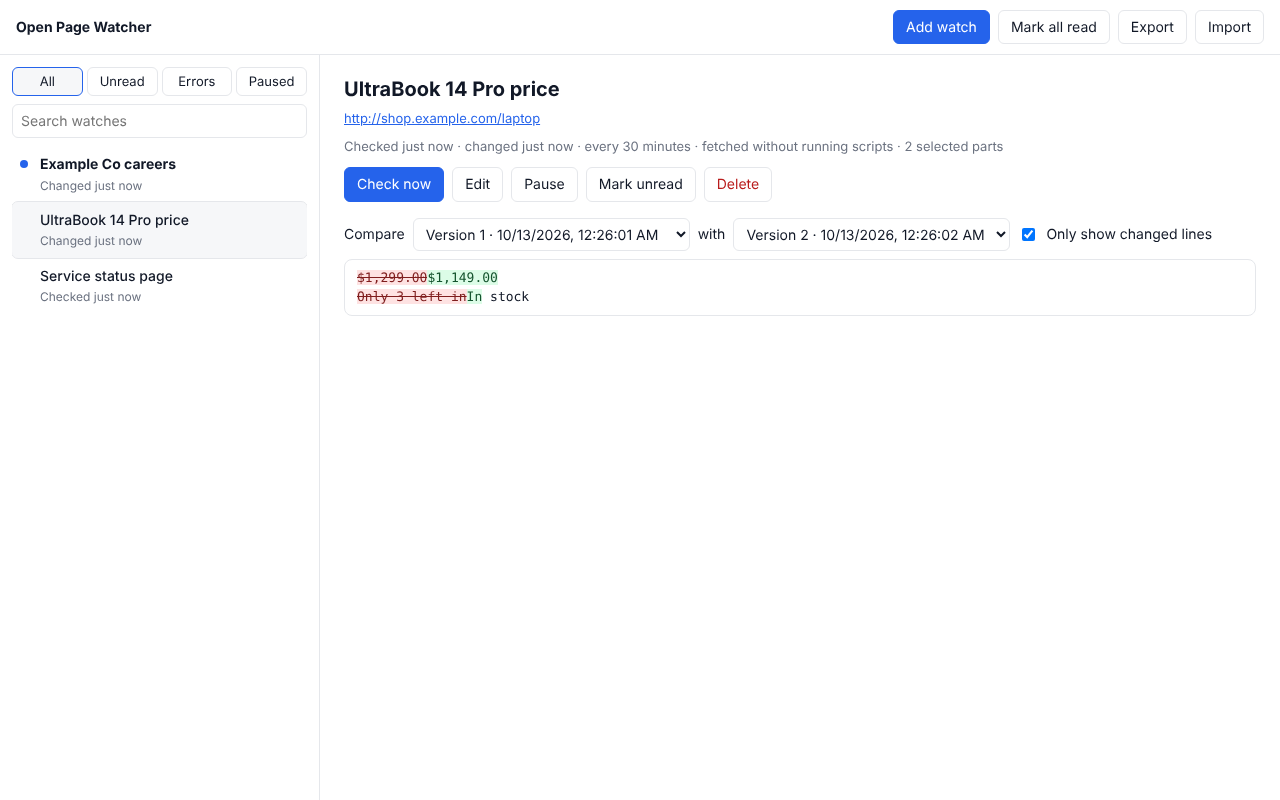
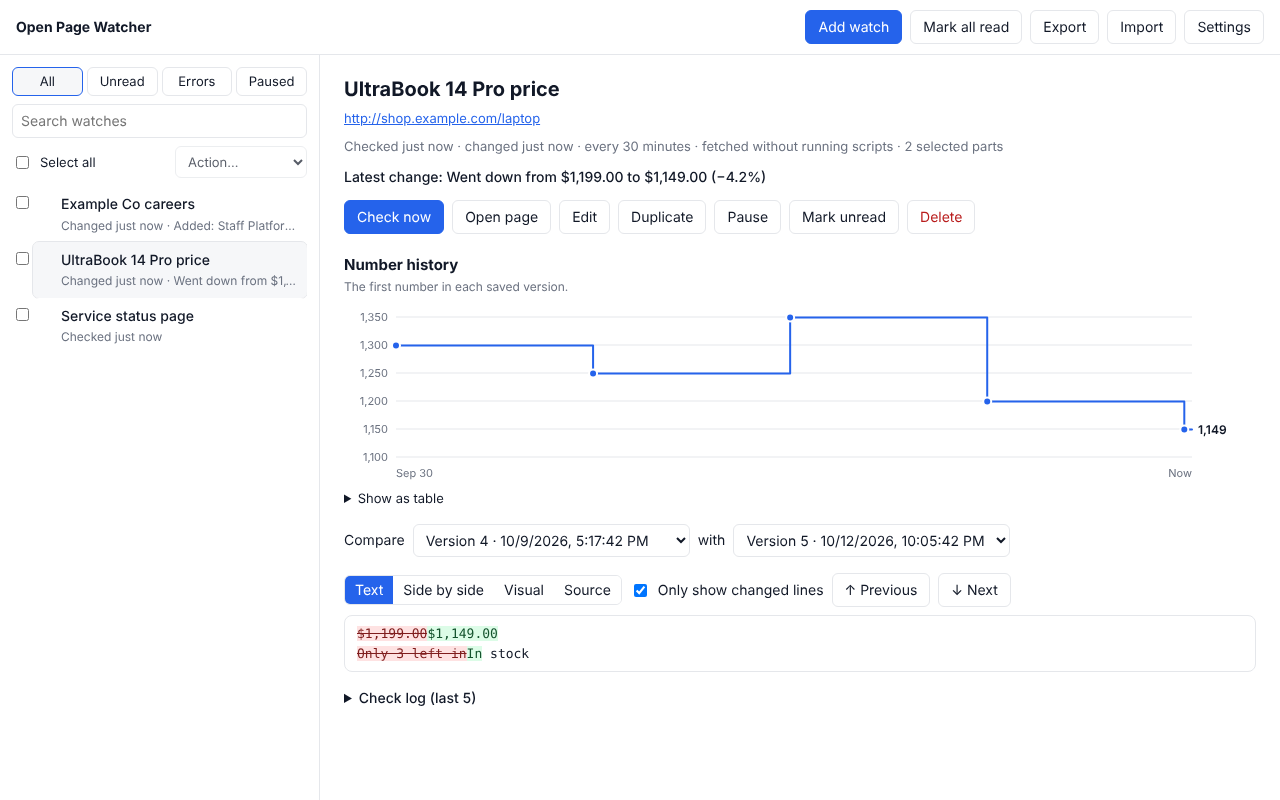
v0.2 docs: store listing, privacy policy, new screenshots

diff --git a/src/ui/inbox.js b/src/ui/inbox.js
@@ -778,7 +778,7 @@ async function settingsForm() {
       el('div', { class: 'hint' }, 'Watches keep checking. What changed is sent as one summary when quiet hours end.'))),
     quietRow),
   el('fieldset', {}, el('legend', {}, 'Keyboard shortcuts'),
-    el('table', { class: 'log' }, el('tbody', {},
+    el('table', { class: 'log shortcuts' }, el('tbody', {},
       ...[['j / k', 'Next / previous watch'], ['e', 'Edit'], ['c', 'Check now'], ['u', 'Mark read or unread'],
         ['n', 'Add a watch'], ['/', 'Search'], ['Alt+Shift+W', 'Pick parts of the current page to watch (any tab)']]
         .map(([k, v]) => el('tr', {}, el('td', {}, el('kbd', {}, k)), el('td', {}, v))))),

diff --git a/src/ui/inbox.css b/src/ui/inbox.css
@@ -94,3 +94,6 @@ table.log td, table.log th, table.num-table td, table.num-table th { text-align:
 .presets { display: flex; gap: 6px; flex-wrap: wrap; align-items: center; }
 .presets button { font-size: 12px; padding: 3px 8px; }
 kbd { font: 12px ui-monospace, SFMono-Regular, Menlo, monospace; border: 1px solid var(--border); border-bottom-width: 2px; border-radius: 4px; padding: 0 5px; background: var(--bg-soft); }
+.inline input[type=time] { width: auto; }
+table.shortcuts { width: auto; justify-self: start; }
+table.shortcuts td:first-child { padding-right: 24px; }

diff --git a/docs/chrome-web-store.md b/docs/chrome-web-store.md
@@ -30,20 +30,25 @@ Watch web pages for changes. Open source, no servers, no tracking, per-site perm
 > page updates, a document is revised.
 >
 > • Watch a whole page, or click to select just the parts you care about
-> • CSS and XPath selectors, plus a regular expression to keep only matching text
-> • Checks from every minute to every 7 days
+> • Web pages, PDFs, JSON, RSS/Atom feeds and sitemaps
+> • CSS and XPath selectors, attributes, and a regular expression to keep only matching text
+> • Checks from every minute to every 7 days, at random times, or only during work hours
 > • Pages that need JavaScript can be rendered before they're read
-> • Alert only when it matters: text appears or disappears, added text contains a
->   word, a number rises or falls, and more
-> • Inbox with unread changes and a highlighted, word-level diff between versions
-> • Desktop notifications, optional sound and an unread count on the toolbar
-> • Import and export your watches
+> • Alert only when it matters: text appears or disappears, a number rises or falls
+>   by an amount or a percentage, and more. Ignore changes in dates or counters.
+> • Notifications that say what changed, an optional sound, or the change read aloud
+> • Quiet hours, and combined summaries instead of one alert per change
+> • Inbox with labels, bulk actions, keyboard shortcuts, a price/number chart and
+>   text, side-by-side and visual comparisons
+> • Open the page with what changed highlighted
+> • Password-protected backups
 >
 > Built for people who can't install trackers on their work browser:
 > • No servers, accounts, analytics or telemetry. Your data stays in your browser.
 > • Asks for access to a site only when you watch it, and gives it back when you stop.
 > • Cookies are off by default for every watch.
 > • Pages are read without running their scripts unless you choose otherwise.
+> • IT teams can restrict sites and options through Chrome policy.
 > • 100% open source (MIT): https://github.com/miqueet/open-page-watcher
 
 **Images** (all in [`store/`](../store)):
@@ -51,7 +56,7 @@ Watch web pages for changes. Open source, no servers, no tracking, per-site perm
 | Field | File |
 | --- | --- |
 | Store icon (128×128) | `icons/icon128.png` |
-| Screenshots (1280×800) | `store/screenshot-1-inbox.png`, `store/screenshot-2-picker.png`, `store/screenshot-3-options.png` |
+| Screenshots (1280×800) | `store/screenshot-1-inbox.png`, `store/screenshot-2-picker.png`, `store/screenshot-3-options.png`, `store/screenshot-4-alerts.png` |
 | Small promo tile (440×280) | `store/promo-small-440x280.png` |
 | Marquee promo tile (1400×560, optional) | `store/promo-marquee-1400x560.png` |
 
@@ -68,11 +73,14 @@ Monitors web pages the user chooses and alerts them when the content changes.
 | Permission | Justification |
 | --- | --- |
 | `storage` | Saves the user's watches and the page text history used to show what changed, locally on the device. |
+| `unlimitedStorage` | Lets users keep longer histories (and snapshots for the visual comparison) for many watches without hitting the 10 MB local storage limit. Data still stays on the device. |
 | `alarms` | Schedules the periodic checks of watched pages. |
 | `notifications` | Shows a desktop notification when a watched page changes. |
 | `offscreen` | Parses downloaded pages with DOMParser without running their scripts, and plays the optional alert sound. |
-| `activeTab` | Injects the element picker into the current tab only when the user clicks "Select parts of page". |
-| `scripting` | Runs the element picker in the current tab, and reads the text of a page rendered in a background window for watches set to "render in tab". |
+| `activeTab` | Injects the element picker into the current tab only when the user starts it from the popup, the right-click menu or the keyboard shortcut. |
+| `scripting` | Runs the element picker in the current tab, reads the text of a page rendered in a background window for watches set to "render in tab", and highlights what changed when the user opens a watched page from the extension. |
+| `contextMenus` | Adds "Watch this page" and "Watch part of this page" to the right-click menu. |
+| `tts` | Reads a change aloud when the user turns that on for a watch. Only voices installed on the device are used. |
 | Host permissions (optional, `http://*/*`, `https://*/*`) | Requested at runtime for one site at a time, only when the user adds a watch for that site, so the extension can download that page. Released when the last watch on the site is deleted. |
 
 **Are you using remote code?** No. All code is in the package; there is no

diff --git a/PRIVACY.md b/PRIVACY.md
@@ -11,7 +11,13 @@ choose for changes. It is built so that your data never leaves your browser.
   watch, schedules and alert settings.
 - The text it extracts from those pages each time it checks them, so it can show
   you what changed. It keeps a limited number of versions per watch, which you
-  can set.
+  can set, and a cleaned-up copy of the page's markup for the five most recent
+  versions (for the visual comparison).
+- A short log of recent checks (time, result, how long it took).
+- Your settings, such as quiet hours.
+
+Text you type into forms on a watched page is never read, and password fields
+are always skipped.
 
 All of this is stored only in your browser's local extension storage
 (`chrome.storage.local`). It is deleted when you delete a watch or remove the
@@ -33,10 +39,18 @@ Access to a website is requested only when you add a watch for it, and is
 released when you delete the last watch for that site. See the
 [README](README.md#permissions) for why each permission is needed.
 
+## Alerts
+
+Notifications are shown by your operating system. If you turn on "Read the
+change aloud", only voices installed on your computer are used; Chrome's online
+voices are never used, so the text isn't sent to a speech service.
+
 ## Exports
 
 If you use **Export**, the extension creates a file on your computer containing
-your watches. Where that file goes is up to you.
+your watches and settings. You can protect it with a password, in which case it
+is encrypted on your computer before it is saved. Where that file goes is up to
+you.
 
 ## Changes and contact
 
